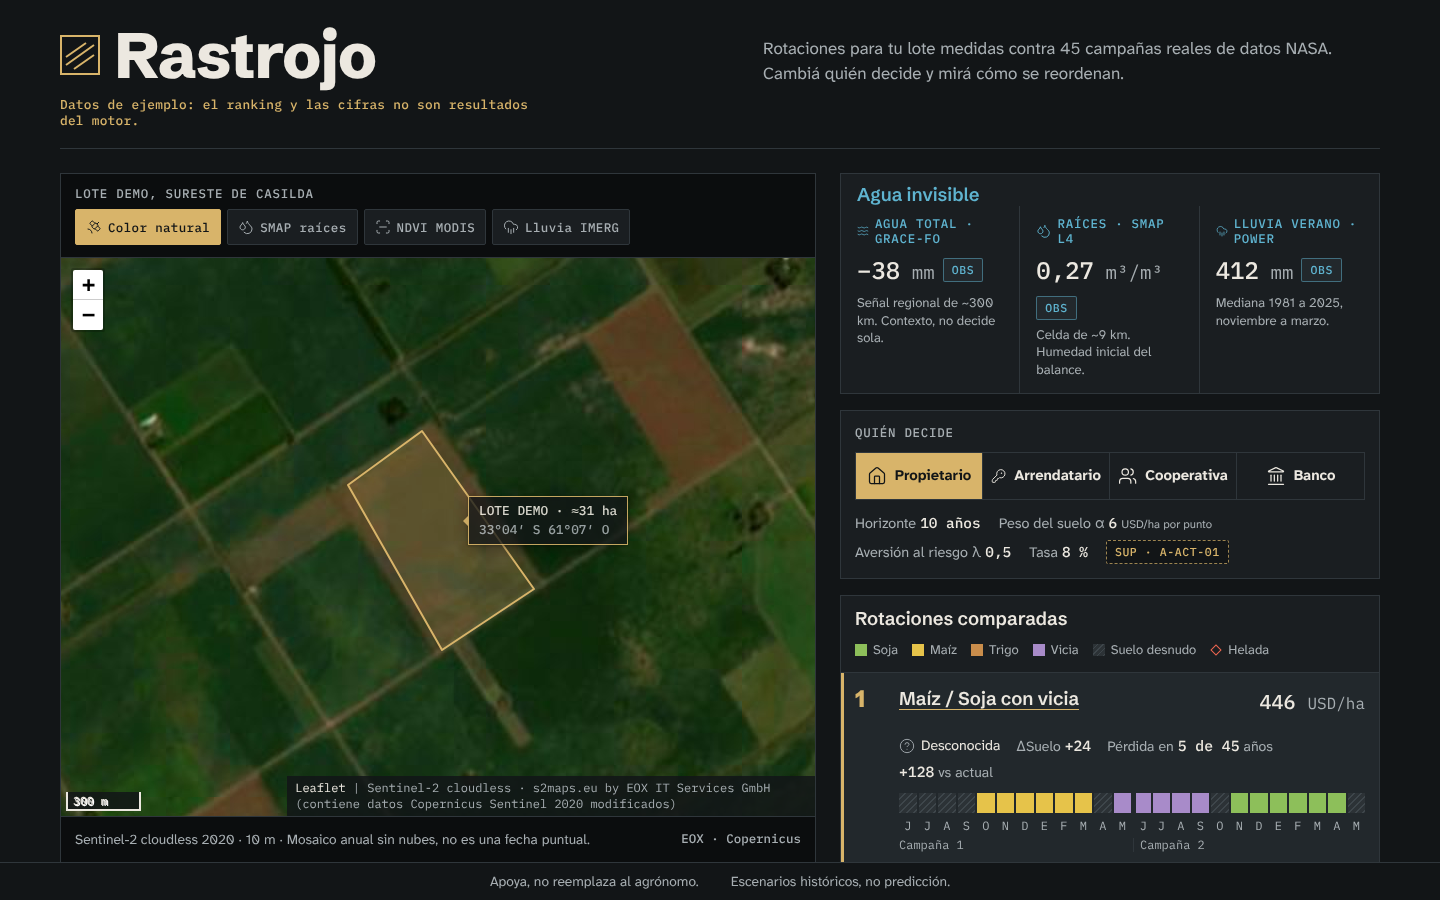
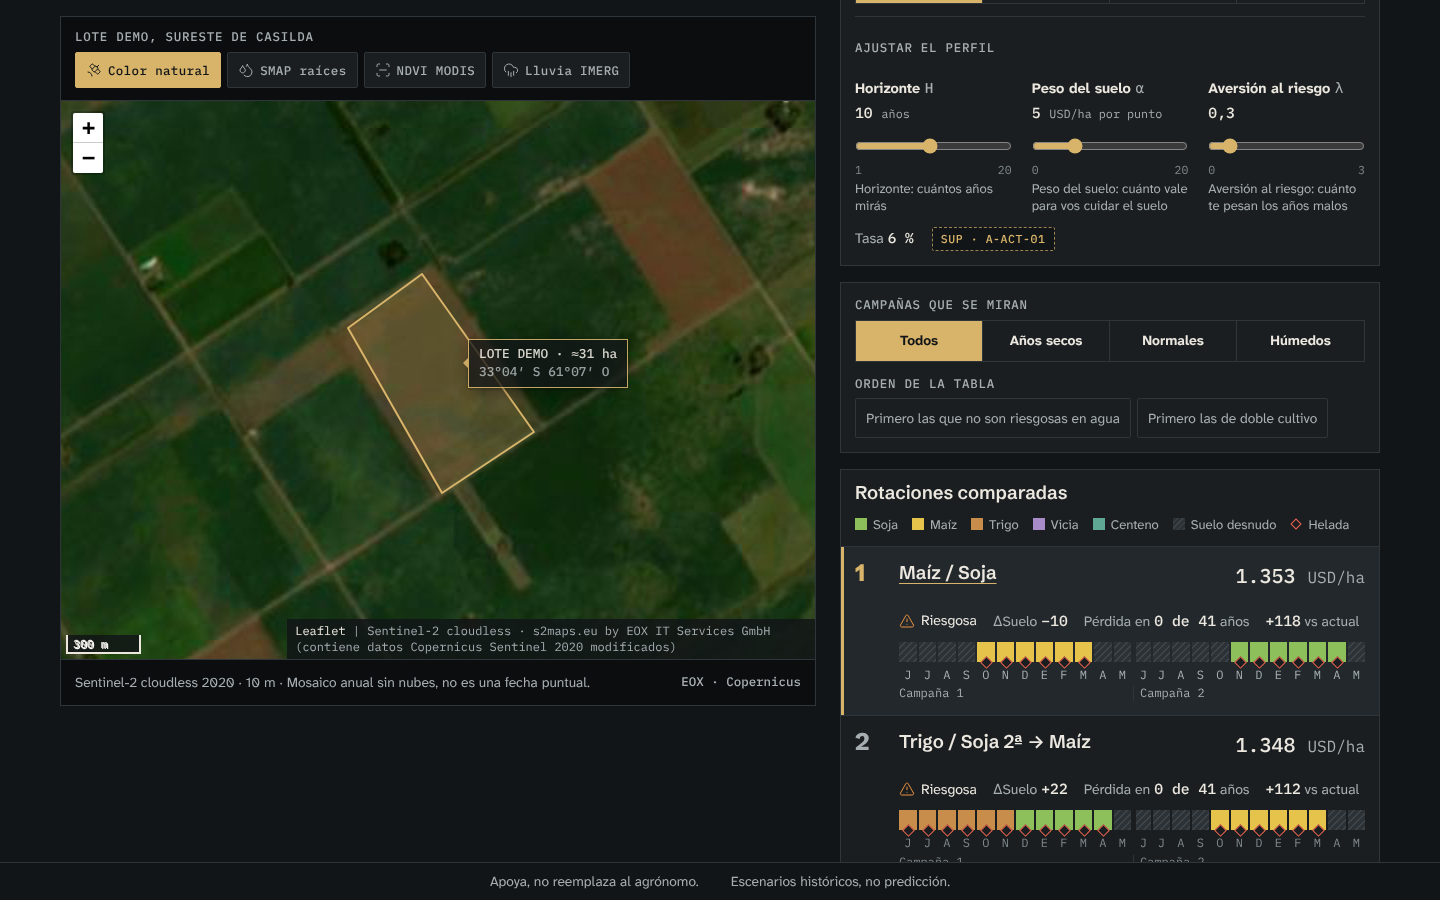
docs(web): screenshot with real API data; mark completed web-demo tasks
Claude-Session: https://claude.ai/code/session_01JTGC2xwYJ8ZqjVg3XMmALB

diff --git a/openspec/changes/web-demo/tasks.md b/openspec/changes/web-demo/tasks.md
@@ -4,7 +4,7 @@
 
 - [ ] 1.1 Crear `web/` con Vite + React + TypeScript, ESLint y vitest; verificar `npm run build` y `npm test` en verde
 - [x] 1.2 Agregar Playwright con viewports 1920x1080, 1280x720 y 390x844 y un test de humo que carga la página; verificar `npx playwright test` en verde
-- [ ] 1.3 Generar tipos TS desde el JSON Schema de `EngineInput`/`EngineOutput` (`schemas/`) y crear cliente `/api/v1` con errores tipados `{code, message, details}`; verificar con vitest contra un fixture de respuesta de `demo-mode`
+- [x] 1.3 Generar tipos TS desde el JSON Schema de `EngineInput`/`EngineOutput` (`schemas/`) y crear cliente `/api/v1` con errores tipados `{code, message, details}`; verificar con vitest contra un fixture de respuesta de `demo-mode`
 - [ ] 1.4 Configurar `VITE_API_BASE_URL`, `.env.example` y chequeo de `GET /health` con indicadores "Modo demo" y "API caída"; verificar tests Playwright de los escenarios "API en modo demo" y "API caída"
 
 ## 2. Mapa y capas GIBS (P0)
@@ -17,7 +17,7 @@
 ## 3. Ranking por actor (P0)
 
 - [ ] 3.1 Tabla comparativa (rango, nombre, puntaje, desglose de tres términos, factibilidad con cuatro textos, ΔSuelo, riesgo) con fila actual rotulada; verificar Playwright "Ranking tal como llega de la API", "Rotación actual destacada", "Rotación no factible", "Factibilidad desconocida" y "Menos de 3 resultados"
-- [ ] 3.2 Selector de actor desde `GET /actors/profiles` que dispara `POST /evaluate`; verificar Playwright "Propietario vs arrendatario"
+- [x] 3.2 Selector de actor desde `GET /actors/profiles` que dispara `POST /evaluate`; verificar Playwright "Propietario vs arrendatario"
 - [ ] 3.3 Vista de tarjetas en celular para la tabla; verificar Playwright "Celular sin scroll horizontal"
 - [ ] 3.4 Columnas de peor año, años con pérdida y lluvia sobre suelo desnudo; verificar Playwright "Años con pérdida visibles" y "Métrica en la tabla"
 
@@ -36,7 +36,7 @@
 
 ## 6. Sliders y cambio de ranking (P1)
 
-- [ ] 6.1 Sliders H, α, λ con rangos de la API, debounce y descarte de respuestas viejas; verificar Playwright "Cambio de λ" y "Respuestas fuera de orden"
+- [x] 6.1 Sliders H, α, λ con rangos de la API, debounce y descarte de respuestas viejas; verificar Playwright "Cambio de λ" y "Respuestas fuera de orden"
 - [x] 6.2 Indicador de cambio de posición y animación FLIP con `prefers-reduced-motion`; verificar vitest del diff de ranking y Playwright "Subida de posición" y "Movimiento reducido"
 
 - [ ] 6.3 Filtro por clase de año, sliders de prioridades de suelo y toggles de preferencias enviados a `/evaluate` (tabla según `display_order`), más filas de calor y lluvia extrema en el timeline cuando vengan en la respuesta; verificar Playwright "Solo años secos", "Preferencia de agua" y "Prioridad de carbono"
